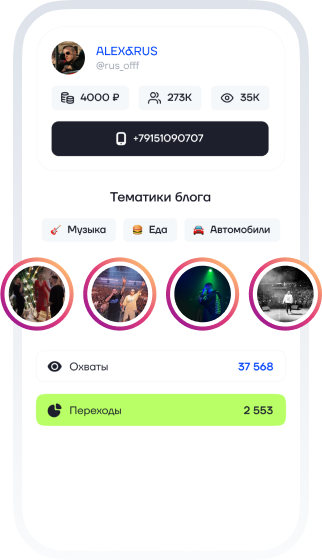
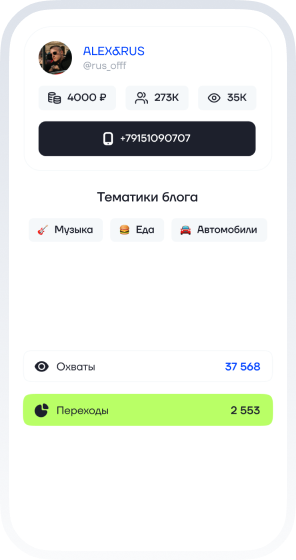
улучшено поведение блока предложение для блогеров

diff --git a/app/css/main.css b/app/css/main.css
@@ -931,7 +931,7 @@ ul li:first-child {
   @media (max-width: 1260px) {
     .fift .container {
       width: 100%;
-      padding-left: 40px; } }
+      margin: 0 auto; } }
   @media (max-width: 991px) {
     .fift .container {
       padding-left: 22px; } }
@@ -980,7 +980,7 @@ ul li:first-child {
     .fift__box-wrap {
       padding-left: 12px;
       padding-right: 20px;
-      height: 500px; } }
+      height: 530px; } }
   @media (max-width: 500px) {
     .fift__box-wrap {
       height: auto; } }
@@ -1001,13 +1001,13 @@ ul li:first-child {
   @media (max-width: 1260px) {
     .fift__box {
       grid-template-columns: 1fr 1fr 1fr;
-      justify-content: space-between;
-      gap: 70px; } }
+      justify-content: center;
+      gap: 0; } }
   @media (max-width: 991px) {
     .fift__box {
       grid-template-columns: 246px 246px 246px;
-      gap: 60px;
-      justify-content: center; } }
+      gap: 90px;
+      justify-content: flex-start; } }
   @media (max-width: 500px) {
     .fift__box {
       grid-template-columns: 232px;
@@ -1022,7 +1022,9 @@ ul li:first-child {
   position: relative; }
   @media (max-width: 1260px) {
     .fift__item {
-      height: 540px; } }
+      height: 540px;
+      width: 266px;
+      margin: 0 auto !important; } }
   .fift__item img {
     margin: 0 auto; }
     @media (max-width: 1260px) {
@@ -1031,18 +1033,21 @@ ul li:first-child {
         border-bottom-right-radius: 50px; } }
   @media (max-width: 991px) {
     .fift__item {
-      height: 460px;
-      width: auto; } }
+      height: 510px;
+      width: 250px; } }
   @media (max-width: 500px) {
     .fift__item {
       height: 452px; } }
 
 .fift__box .fift__item:first-child {
   margin-left: 0; }
+  @media (max-width: 1260px) {
+    .fift__box .fift__item:first-child {
+      margin-left: auto;
+      margin-right: 0; } }
 
 .fift__box .fift__item:last-child {
-  margin-right: 30px;
-  width: 321px; }
+  margin-right: 30px; }
   @media (max-width: 991px) {
     .fift__box .fift__item:last-child {
       width: auto; } }
@@ -1061,10 +1066,15 @@ ul li:first-child {
   width: 278px; }
   @media (max-width: 1260px) {
     .fift__item-content {
-      font-size: 23px; } }
+      font-size: 23px;
+      width: 250px;
+      margin-left: -125px;
+      bottom: 30px; } }
   @media (max-width: 991px) {
     .fift__item-content {
-      font-size: 21px; } }
+      font-size: 21px;
+      width: 236px;
+      margin-left: -118px; } }
   .fift__item-content span {
     display: block;
     font-weight: 700;
@@ -1107,15 +1117,15 @@ ul li:first-child {
   background: linear-gradient(to right bottom, #0039E2, #0075FF); }
   @media (max-width: 1260px) {
     .fift__item-wrapper {
-      width: 316px;
+      width: 290px;
       padding: 22px 24px;
       left: -11px;
       top: 150px; } }
   @media (max-width: 991px) {
     .fift__item-wrapper {
-      width: 267px;
-      left: -10px;
-      top: 136px;
+      width: 255px;
+      left: -3px;
+      top: 130px;
       border-radius: 25px; } }
   @media (max-width: 500px) {
     .fift__item-wrapper {
@@ -2396,14 +2406,23 @@ ul li:first-child {
 
 /* runline */
 .runline {
-  text-align: center; }
+  text-align: center;
+  position: relative;
+  height: 177px; }
+  .runline img {
+    height: 177px;
+    width: auto;
+    max-width: 1000%;
+    position: absolute;
+    top: 0;
+    left: 0; }
   @media (max-width: 991px) {
     .runline {
       height: 200px; }
       .runline img {
-        height: 100%;
+        height: 200px;
         width: auto;
-        max-width: none; } }
+        max-width: 1000%; } }
 
 /* qa */
 .qa {

diff --git a/app/sass/main.sass b/app/sass/main.sass
@@ -487,7 +487,7 @@
     .container
         +lg
             width: 100%
-            padding-left: 40px
+            margin: 0 auto
         +md
             padding-left: 22px
         +xs
@@ -528,7 +528,7 @@
     +md
         padding-left: 12px
         padding-right: 20px
-        height: 500px
+        height: 530px
     +xs
         height: auto
     .simplebar-content-wrapper
@@ -546,12 +546,12 @@
     padding-top: 10px
     +lg
         grid-template-columns: 1fr 1fr 1fr
-        justify-content: space-between
-        gap: 70px
+        justify-content: center
+        gap: 0
     +md
         grid-template-columns: 246px 246px 246px
-        gap: 60px
-        justify-content: center
+        gap: 90px
+        justify-content: flex-start
     +xs
         grid-template-columns: 232px
         justify-content: center
@@ -564,22 +564,26 @@
     position: relative
     +lg
         height: 540px
+        width: 266px
+        margin: 0 auto !important
     img
         margin: 0 auto
         +lg
             border-bottom-left-radius: 50px
             border-bottom-right-radius: 50px
     +md
-        height: 460px
-        width: auto
+        height: 510px
+        width: 250px
     +xs
         height: 452px
 .fift__box
     .fift__item:first-child
         margin-left: 0
+        +lg
+            margin-left: auto
+            margin-right: 0
     .fift__item:last-child
         margin-right: 30px
-        width: 321px
         +md
             width: auto
 .fift__item-content
@@ -596,8 +600,13 @@
     width: 278px
     +lg
         font-size: 23px
+        width: 250px
+        margin-left: -125px
+        bottom: 30px
     +md
         font-size: 21px
+        width: 236px
+        margin-left: -118px
     span
         display: block
         font-weight: 700
@@ -632,14 +641,14 @@
     box-shadow: 0px 17px 32px 0 rgba(46, 66, 255, .15)
     background: linear-gradient(to right bottom, #0039E2, #0075FF)
     +lg
-        width: 316px
+        width: 290px
         padding: 22px 24px
         left: -11px
         top: 150px
     +md
-        width: 267px
-        left: -10px
-        top: 136px
+        width: 255px
+        left: -3px
+        top: 130px
         border-radius: 25px
     +xs
         left: -17px
@@ -1691,12 +1700,21 @@
 /* runline */
 .runline
     text-align: center
+    position: relative
+    height: 177px
+    img
+        height: 177px
+        width: auto
+        max-width: 1000%
+        position: absolute
+        top: 0
+        left: 0
     +md
         height: 200px
         img
-            height: 100%
+            height: 200px
             width: auto
-            max-width: none
+            max-width: 1000%
 /* qa */
 .qa
     padding-top: 65px

diff --git a/app/index.html b/app/index.html
@@ -1081,8 +1081,8 @@
 		</div>
 	</div>
 	<!-- runline -->
-	<div class="runline wow animate__animated animate__lightSpeedInLeft" id="runline">
-		<img src="img/run-line.png">
+	<div class="runline" id="runline">
+		<img src="img/run-line2.png">
 	</div>
 	<!-- qa  -->
 	<section class="qa" id="qa">

diff --git a/app/css/myanims.css b/app/css/myanims.css
@@ -79,9 +79,6 @@
 
 
 
-
-
-
 /* leFadeInLeft */
 .leFadeInLeft {
     animation-name: leFadeInLeft;
